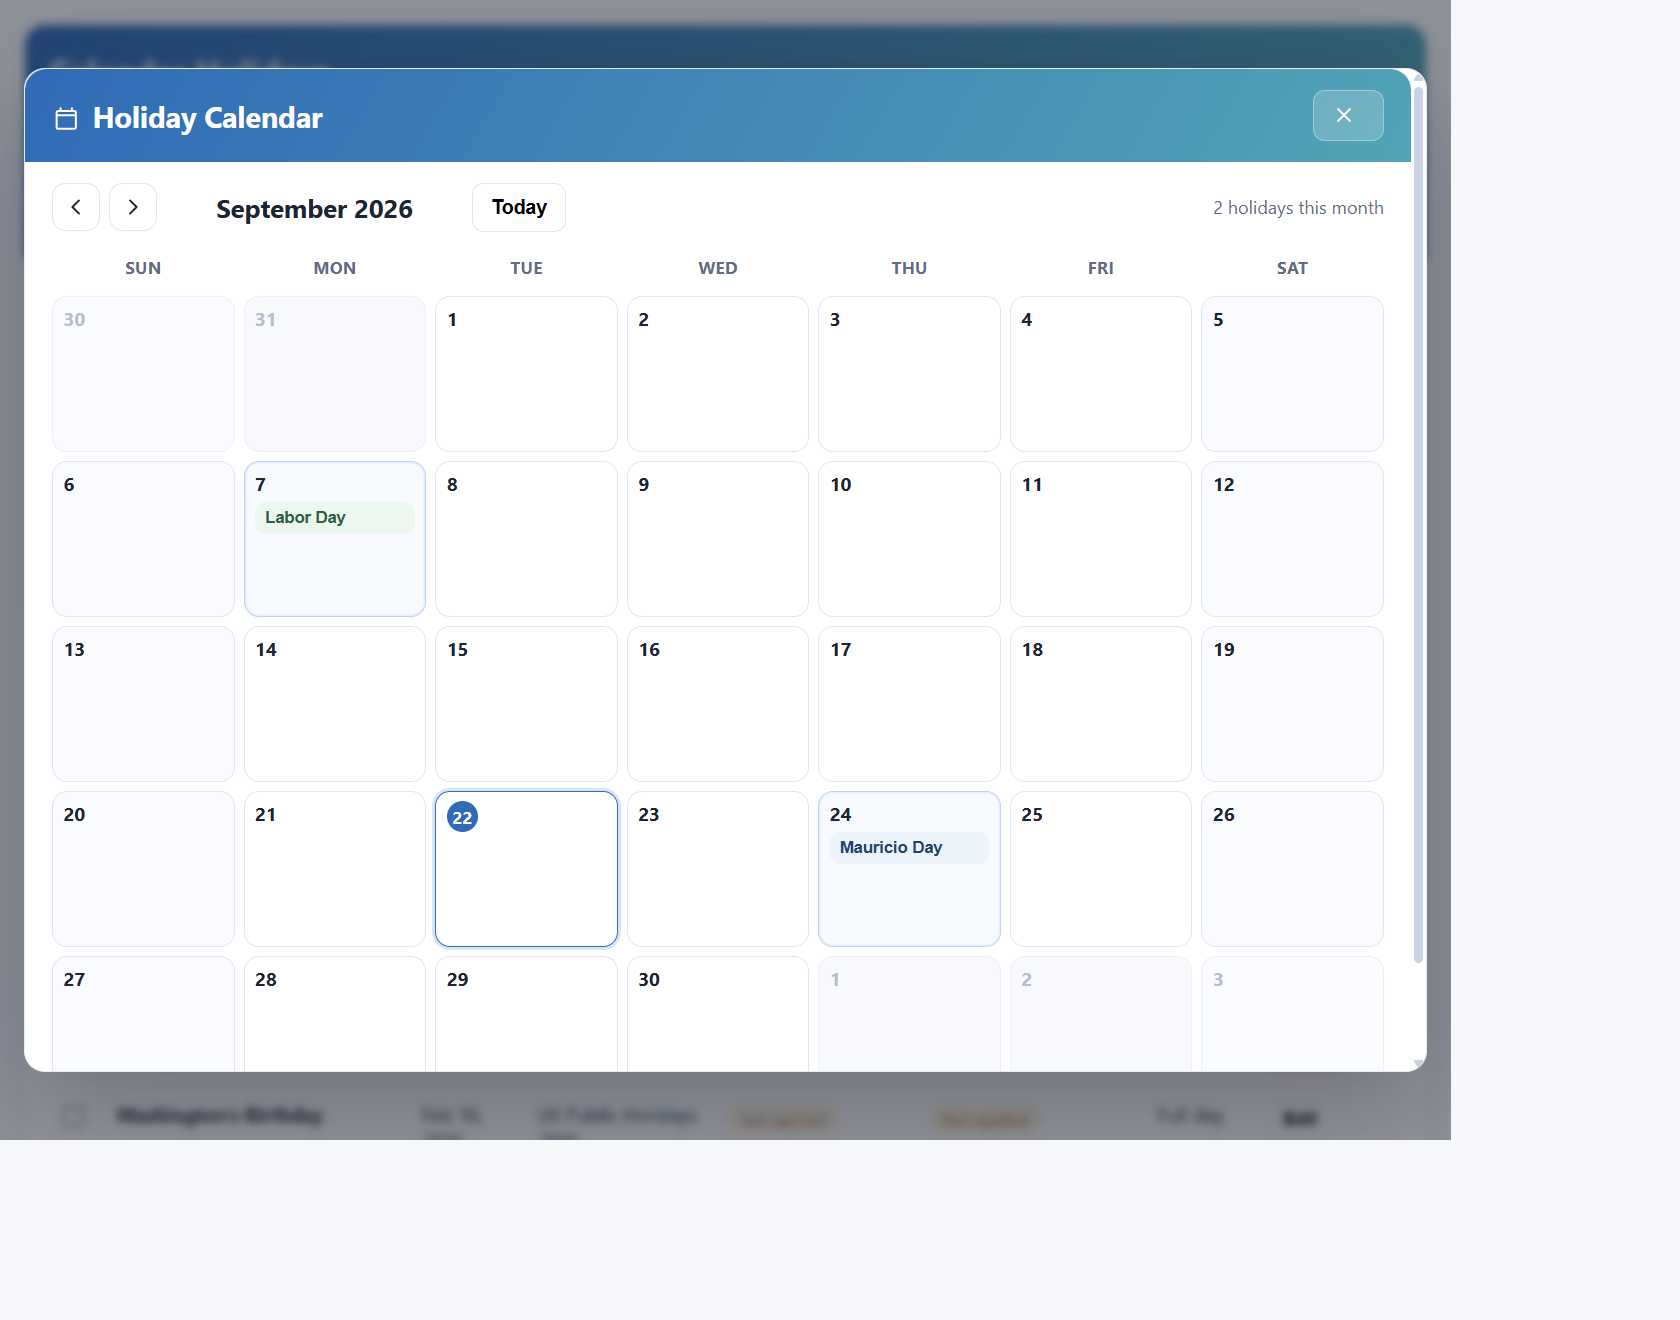
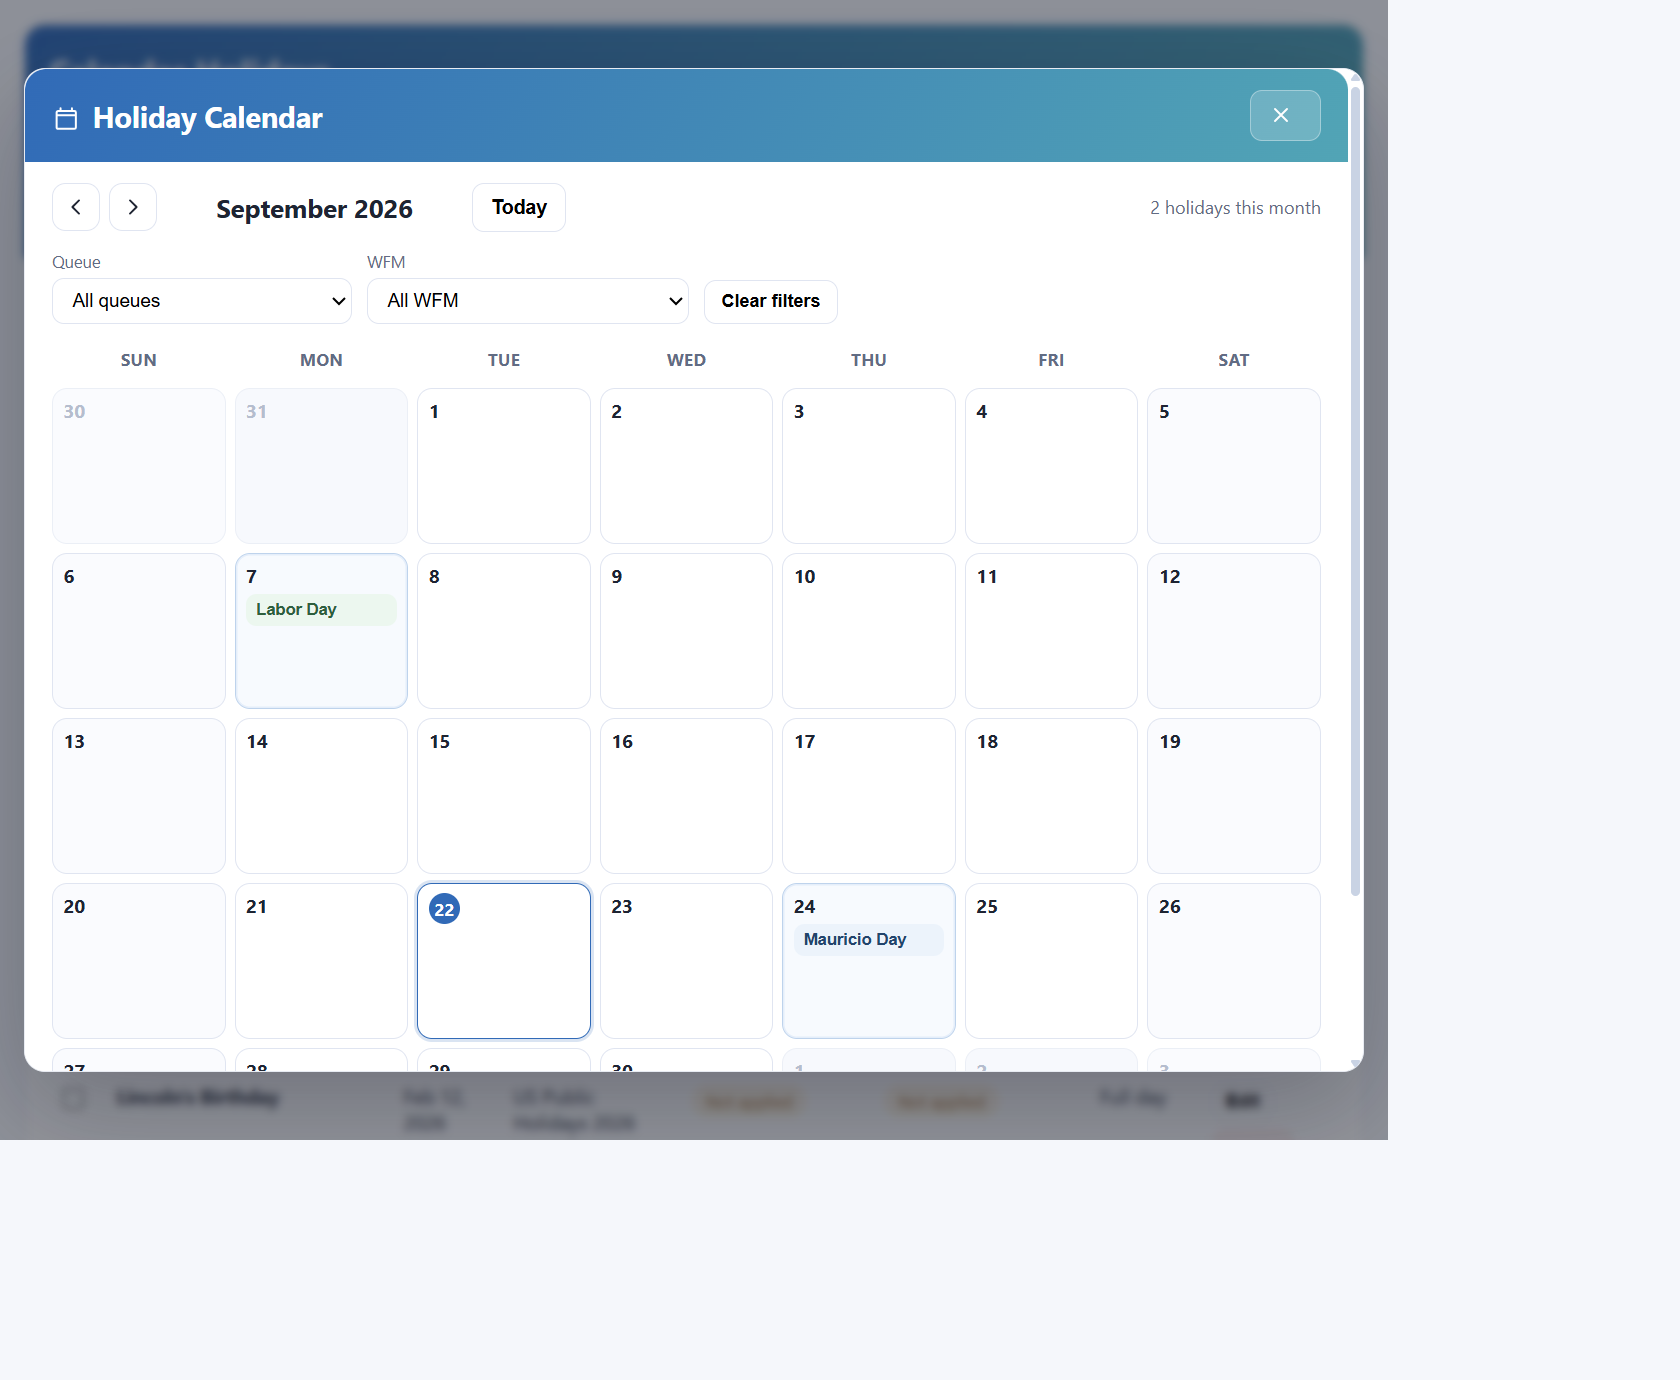
v1.4.0: Queue and WFM filters in list view and calendar

diff --git a/solution/WebResources/qhol_queue_holidays_app.html b/solution/WebResources/qhol_queue_holidays_app.html
@@ -212,7 +212,7 @@ input[type=checkbox]{width:15px;height:15px;accent-color:var(--brand);cursor:poi
       <div><label>Month</label><select id="month"></select></div>
       <div><label>Queue</label><select id="fQueue"></select></div>
       <div><label>WFM</label><select id="fWfm"></select></div>
-      <div><label>Search</label><input id="q" placeholder="Holiday, schedule, or queue" /></div>
+      <div><label>Search</label><input id="q" placeholder="Holiday, schedule, queue, or WFM" /></div>
       <div class="btns">
         <button class="sec" id="reset">Reset</button>
         <button class="sec" id="refresh">Refresh</button>

diff --git a/README.md b/README.md
@@ -10,7 +10,7 @@ If you run customer service queues in Dynamics 365 / Copilot Service, you can te
 
 This app fixes that. It's a single page, added right inside your Copilot Service Admin Center, where you can:
 
-- 📅 **See every holiday**, across every schedule, in one table — filterable by year, month, or a quick search.
+- 📅 **See every holiday**, across every schedule, in one table — filterable by year, month, queue, WFM, or a quick search.
 - 🗓 **Calendar view** — click **Calendar** for a month-by-month grid of your holidays, colour-coded per schedule. Click any holiday to edit it.
 - 🌍 **Import a whole country's public holidays** in one click (powered by a free public holiday database, covering 200+ countries), instead of typing each one in by hand.
 - ➕ **Add, edit, or delete** individual holidays whenever your business needs change.
@@ -128,7 +128,7 @@ If you want to modify the app and re-package it:
 ./scripts/build-solution-zip.ps1
 ```
 
-This regenerates `QueueHolidaysManager_1_3_0_0.zip` at the repo root, ready to import.
+This regenerates `QueueHolidaysManager_1_4_0_0.zip` at the repo root, ready to import.
 
 ## A note on the navigation step
 
